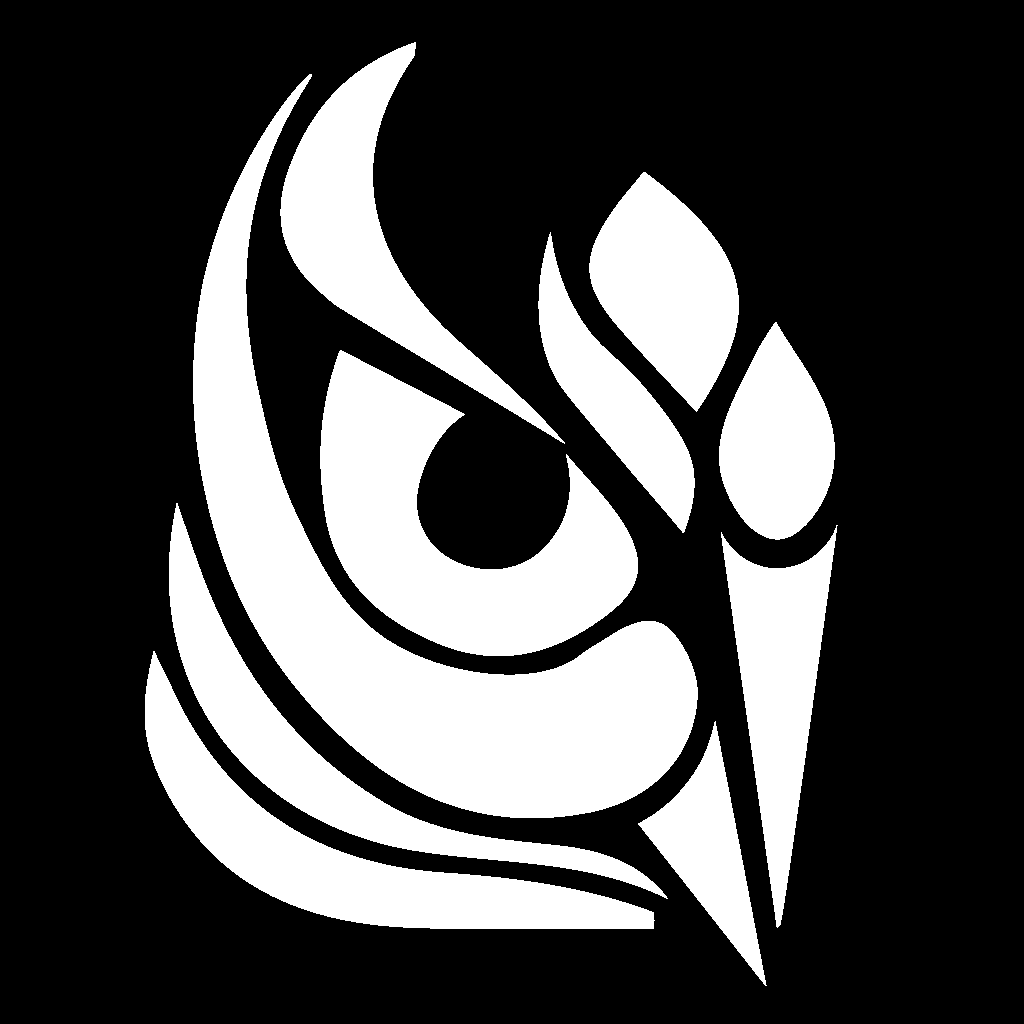
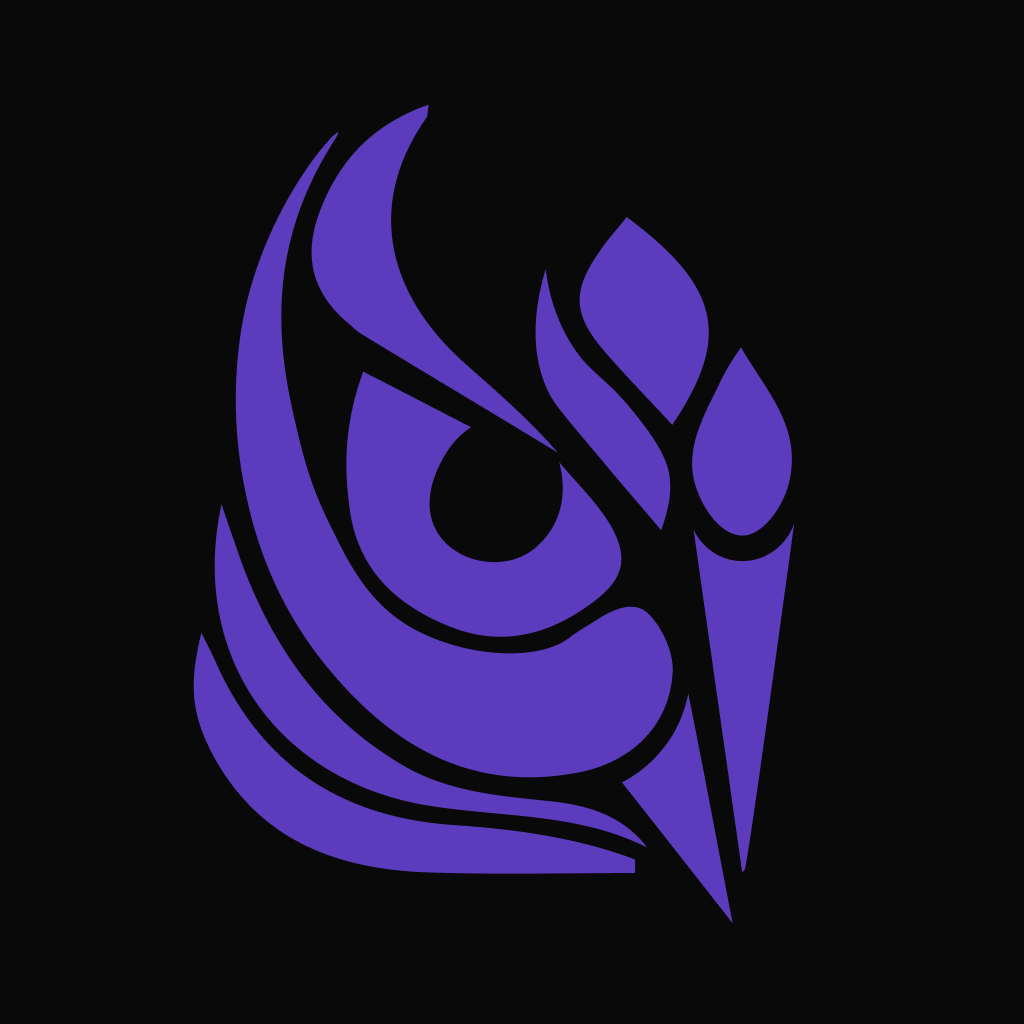
Update app version 1.0.8

diff --git a/App.tsx b/App.tsx
@@ -1,20 +1,27 @@
 import React from "react";
-import { StatusBar, View, StyleSheet } from "react-native";
+import { SafeAreaView, View } from "react-native";
+import { StatusBar } from "expo-status-bar";
 import { CountDownStorage } from "./src/contexts/CountDownContext";
 
 import Home from "./src/screens/home";
 
-import { global } from "./src/styles/global";
+import { global, colors } from "./src/styles/global";
 
 export default function Apps() {
   return (
     <>
-      <StatusBar hidden={true} />
-      <CountDownStorage>
-        <View style={global.container}>
-          <Home />
-        </View>
-      </CountDownStorage>
+      <SafeAreaView>
+        <StatusBar
+          backgroundColor={colors.black}
+          style="light"
+          translucent={false}
+        />
+        <CountDownStorage>
+          <View style={global.container}>
+            <Home />
+          </View>
+        </CountDownStorage>
+      </SafeAreaView>
     </>
   );
 }

diff --git a/src/styles/global.tsx b/src/styles/global.tsx
@@ -1,23 +1,20 @@
 import { StyleSheet } from "react-native";
 
 export const colors = {
-  white: "#ffffff",
-  black: "#111212",
-  black2: "#090a0a",
-  grey: "#373737",
+  white: "#f2f3f5",
+  black: "#090a0a",
+  black2: "#0e0f0f",
   lightBlue: "#8eb1df",
-  semiLightBlue: "#759ace",
   mediumBlue: "#6686bb",
-  boldBlue: "#6e7dff",
-  darkBlue: "#39415b",
-  brown: "#866a6c",
+  boldBlue: "#5c3cbd",
+  darkBlue: "#191033",
 };
 
 export const global = StyleSheet.create({
   container: {
     height: "100%",
 
-    paddingTop: 10,
+    paddingTop: 8,
     paddingHorizontal: 16,
     paddingBottom: 25,
 

diff --git a/src/contexts/CountDownContext.tsx b/src/contexts/CountDownContext.tsx
@@ -20,7 +20,7 @@ export const CountDownContext = React.createContext(
 );
 
 export function CountDownStorage({ children }: any) {
-  const timer = 0.05 * 60;
+  const timer = 25 * 60;
   const [time, setTime] = React.useState<number>(timer);
   const [active, setActive] = React.useState<boolean>(false);
 
